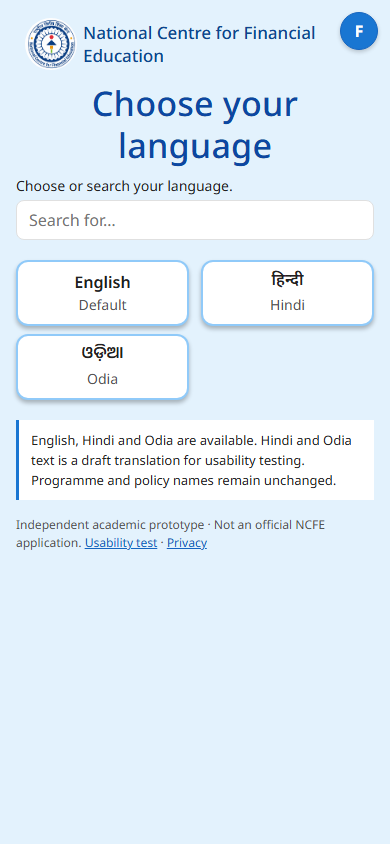
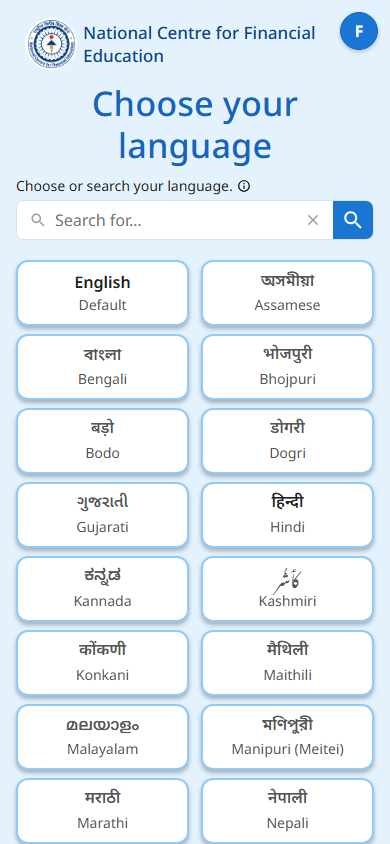
fix:match-blue-wrapper-and-original-language-flow

diff --git a/src/features/Onboarding.tsx b/src/features/Onboarding.tsx
@@ -3,6 +3,33 @@ import { useState } from 'react';
 import { useNavigate } from 'react-router-dom';
 import { Dialog, Logo, PrototypeNote } from '../components/UI';
 import { languages, useApp, type Language } from '../state';
+import { onboardingLanguages } from '../content/onboarding-languages';
+import { asset } from '../content/design';
 import s from '../styles/App.module.css';
 import o from '../styles/Onboarding.module.css';
-export function Onboarding() { const t = useTranslation(); const navigate = useNavigate(); const app = useApp(); const [pending, setPending] = useState<Language | null>(null); const [selected, setSelected] = useState<Language | null>(null); const [query, setQuery] = useState(''); const option = languages.find(l => l.id === pending); return <section className={o.onboarding}><div className={o.identity}><Logo /><p>{t("National Centre for Financial Education")}</p></div><h1 tabIndex={-1}>{t("Choose your language")}</h1><form role="search" onSubmit={e => e.preventDefault()}><label htmlFor="language-search">{t("Choose or search your language.")}</label><input id="language-search" type="search" placeholder={t("Search for…")} value={query} onChange={e => setQuery(e.target.value)}/></form><div className={o.languages} role="group" aria-label={t("Available languages")}>{languages.filter(l => `${l.native} ${l.name}`.toLowerCase().includes(query.toLowerCase())).map(language => <button key={language.id} className={`${o.tile} ${selected === language.id ? o.selected : ''}`} aria-pressed={selected === language.id} onClick={() => { setSelected(language.id); setPending(language.id); }}><strong lang={language.id} className={language.id === 'hi' ? o.hindi : language.id === 'or' ? o.odia : undefined}>{language.native}</strong><span>{t(language.name)}</span></button>)}</div>{query && !languages.some(l => `${l.native} ${l.name}`.toLowerCase().includes(query.toLowerCase())) && <p role="status">{t("No matching language.")}</p>}<p className={s.notice}>{t("English, Hindi and Odia are available. Hindi and Odia text is a draft translation for usability testing. Programme and policy names remain unchanged.")}</p><PrototypeNote />{pending && option && <Dialog title={t(`Select ${pending === 'en' ? 'English' : option.name}?`)} onClose={() => setPending(null)}><p>{t("Use ")}{t(pending === 'en' ? 'English' : option.name)}{t(" as your app language?")}</p><div className={s.actions}><button className={s.primary} onClick={() => { app.setLanguage(pending); navigate('/home'); }}>{t("Confirm")}</button><button className={s.secondary} onClick={() => setPending(null)}>{t("Cancel")}</button></div></Dialog>}</section>; }
+
+export function Onboarding() {
+  const t = useTranslation();
+  const navigate = useNavigate();
+  const app = useApp();
+  const [pending, setPending] = useState<Language | null>(null);
+  const [selected, setSelected] = useState<Language | null>(null);
+  const [query, setQuery] = useState('');
+  const option = languages.find(language => language.id === pending);
+  const matching = onboardingLanguages.filter(language => `${language.native} ${language.name}`.toLowerCase().includes(query.toLowerCase()));
+  return <section className={o.onboarding}>
+    <div className={o.identity}><Logo /><p>{t('National Centre for Financial Education')}</p></div>
+    <h1 tabIndex={-1}>{t('Choose your language')}</h1>
+    <form role="search" onSubmit={event => event.preventDefault()}>
+      <label htmlFor="language-search">{t('Choose or search your language.')} <img src={asset('111-7492', 'imgInfo')} alt="" /></label>
+      <div className={o.searchField}><img src={asset('111-7492', 'imgLeadingIcon')} alt="" /><input id="language-search" type="search" placeholder={t('Search for…')} value={query} onChange={event => setQuery(event.target.value)} /><button type="button" aria-label="Clear language search" onClick={() => setQuery('')}><img src={asset('111-7492', 'imgTrailingIcon1')} alt="" /></button><button type="submit" aria-label="Search languages"><img src={asset('111-7492', 'imgIcon')} alt="" /></button></div>
+    </form>
+    <div className={o.languages} role="group" aria-label={t('Available languages')}>
+      {matching.map(language => <button key={language.locale} disabled={!language.id} aria-describedby={!language.id ? 'language-availability' : undefined} className={`${o.tile} ${selected === language.id ? o.selected : ''}`} aria-pressed={selected === language.id} onClick={() => { if (language.id) { setSelected(language.id); setPending(language.id); } }}><strong lang={language.locale} className={language.id === 'hi' ? o.hindi : language.id === 'or' ? o.odia : undefined}>{language.native}</strong><span>{t(language.name)}</span></button>)}
+    </div>
+    {query && !matching.length && <p role="status">{t('No matching language.')}</p>}
+    <p id="language-availability" className={window.parent !== window ? s.srOnly : s.notice}>{t('English, Hindi and Odia are available. Hindi and Odia text is a draft translation for usability testing. Programme and policy names remain unchanged.')}</p>
+    <PrototypeNote />
+    {pending && option && <Dialog languageConfirmation title={t('Confirm your language?')} onClose={() => setPending(null)}><p>{t('Use the selected language for this app?')}</p><div className={s.actions}><button className={s.primary} onClick={() => { app.setLanguage(pending); navigate('/home'); }}>{t('Yes')}</button><button className={s.secondary} onClick={() => setPending(null)}>{t('No')}</button></div></Dialog>}
+  </section>;
+}

diff --git a/src/Presentation.tsx b/src/Presentation.tsx
@@ -1,15 +1,17 @@
 import { useEffect, useRef, useState } from 'react';
 import s from './styles/App.module.css';
+import { asset } from './content/design';
 export function Presentation({children}:{children:React.ReactNode}) {
   const params=new URLSearchParams(window.location.search);
   const [desktop,setDesktop]=useState(window.innerWidth>=768);
+  const [scale,setScale]=useState(()=>Math.min(.78,(window.innerHeight-136)/892));
   const [closed,setClosed]=useState(false);
   const frame=useRef<HTMLIFrameElement>(null);
-  useEffect(()=>{const update=()=>setDesktop(window.innerWidth>=768);window.addEventListener('resize',update);return()=>window.removeEventListener('resize',update);},[]);
+  useEffect(()=>{const update=()=>{setDesktop(window.innerWidth>=768);setScale(Math.max(.35,Math.min(.78,(window.innerHeight-136)/892)));};window.addEventListener('resize',update);return()=>window.removeEventListener('resize',update);},[]);
   const send=(action:string)=>frame.current?.contentWindow?.postMessage({type:'ncfe-wrapper',action},window.location.origin);
   const close=()=>{if(params.get('embedded')==='portfolio'&&window.parent!==window){const origin=params.get('parentOrigin');if(origin){try{const u=new URL(origin);if(u.origin===u.href.replace(/\/$/,''))window.parent.postMessage({type:'ncfe-close'},u.origin);}catch{/* Invalid configured parent. */}}}setClosed(true);};
   if(params.get('view')==='app'||!desktop)return <>{children}</>;
   if(closed)return <div className={s.closed}><h1>Prototype demo closed</h1><p>Independent academic NCFE redesign.</p><button className={s.primary} onClick={()=>setClosed(false)}>Reopen prototype</button><a href="https://siddhibhavya.github.io/">Return to portfolio</a></div>;
   const url=new URL(window.location.href);url.searchParams.set('view','app');url.searchParams.delete('embedded');url.searchParams.delete('parentOrigin');
-  return <div className={s.desktopStage}><section className={s.demoWindow} aria-label="NCFE prototype demo"><header className={s.demoTitle}><h1>Prototype Demo</h1><button aria-label="Close prototype demo" onClick={close}>×</button></header><div className={s.demoBody}><div className={s.phoneFrame}><iframe ref={frame} title="NCFE independent academic prototype" src={url.href}/></div><aside className={s.demoControls}><button onClick={()=>send('restart')}>Restart</button><button onClick={()=>send('back')}>Back</button><button className={s.feedbackDesktop} onClick={()=>send('feedback')}>Feedback</button><p>Independent academic redesign.<br/>Not an official NCFE application.</p></aside></div></section></div>;
+  return <div className={s.desktopStage}><section className={s.demoWindow} aria-label="NCFE prototype demo"><header className={s.demoTitle}><h1>Prototype Demo</h1><button aria-label="Close prototype demo" onClick={close}>×</button></header><div className={s.demoBody}><div className={s.phoneSlot} style={{width:420*scale,height:892*scale}}><div className={s.phoneFrame} style={{transform:`scale(${scale})`}}><div className={s.deviceStatus} aria-hidden="true"><span>9:41</span><span className={s.dynamicIsland}/><div>{['imgCellularConnection','imgWifi','imgFrame'].map(name=><img key={name} src={asset('111-7492',name)} alt=""/>)}</div></div><iframe ref={frame} title="NCFE independent academic prototype" src={url.href}/><div className={s.homeIndicator} aria-hidden="true"><span/></div></div></div><aside className={s.demoControls}><button onClick={()=>send('restart')}>Restart</button><button onClick={()=>send('back')}>Back</button><button onClick={()=>send('feedback')}>Feedback</button><p><strong>Language availability</strong><br/>English, Hindi and Odia are available. Other language cards are disabled.</p><p>Hindi and Odia are draft translations. Programme and policy names stay unchanged; original images may contain English.</p><p>Forms and support use fictional demonstrations. Unavailable videos are labelled. Feedback currently works in demonstration mode.</p><p>Independent academic redesign.<br/>Not an official NCFE application.</p></aside></div></section></div>;
 }

diff --git a/src/styles/App.module.css b/src/styles/App.module.css
@@ -3,5 +3,28 @@
 .srOnly{position:absolute!important;width:1px!important;height:1px!important;padding:0!important;margin:-1px!important;overflow:hidden!important;clip-path:inset(50%);white-space:nowrap;border:0}.feedbackTrigger{top:10px;left:92px;right:auto}.shell:has(.onboarding) .feedbackTrigger{top:12px;right:12px;left:auto}.shell:has(.onboarding) .identity{padding-right:42px}.feedbackDialog{border-color:#ffc038}.feedbackDialog .close img{width:24px;height:24px}.header .icon{max-height:28px}.page>h1.srOnly{margin:0}.main>.page:has(>h1.srOnly){padding-top:8px}.main:has(.onboarding) .feedbackTrigger{top:12px}.dark .logo{background:white}.dark input::placeholder{color:#ccc}.feedbackTrigger .desktopLabel{display:none}@media(min-width:768px){.feedbackTrigger{left:100px;right:auto;width:auto}.feedbackTrigger .desktopLabel{display:inline}.feedbackTrigger .mobileLabel{display:none}}
 .onboardShell .feedbackTrigger{top:12px;right:12px;left:auto}
 .shell[lang=hi]{font-family:'Noto Sans Devanagari','Noto Sans',sans-serif}.shell[lang=or]{font-family:'Anek Odia','Noto Sans',sans-serif}
-.demoControls .feedbackDesktop{background:var(--primary);color:white;border:1px solid var(--primary-dark);border-radius:8px;font-size:16px;min-height:44px}
+.desktopStage{background:var(--heading);padding:16px}
+.demoWindow{width:min(680px,100%);background:var(--background);border-radius:28px;margin:0}
+.demoTitle{height:56px;background:var(--primary-dark)}
+.demoTitle h1{font-size:26px}
+.demoTitle button{top:6px;font-size:32px}
+.demoBody{gap:28px;padding:24px}
+.phoneSlot{position:relative;flex:none}
+.phoneFrame{position:absolute;width:420px;min-width:0;max-width:none;height:892px;min-height:0;border:9px solid #212121;border-radius:55px;box-shadow:0 0 0 2px var(--outline),0 12px 24px #0003;display:flex;flex-direction:column;transform-origin:top left}
+.phoneFrame iframe{height:auto;flex:1;min-height:0}
+.deviceStatus{height:54px;flex:none;display:flex;align-items:center;justify-content:space-between;background:#fafafa;padding:0 25px;font-size:17px;font-weight:600;color:#0c0231;position:relative}
+.deviceStatus>div{display:flex;gap:7px;align-items:center}
+.dynamicIsland{position:absolute;top:10px;left:50%;transform:translateX(-50%);width:120px;height:34px;background:#000;border-radius:24px}
+.homeIndicator{height:25px;background:#212121;display:grid;place-items:center;flex:none}
+.homeIndicator span{width:216px;height:5px;border-radius:9px;background:#fff}
+.demoControls{width:230px;min-width:0;padding:0}
+.demoControls button{border:2px solid var(--primary-dark);background:var(--primary);color:white;border-radius:30px;min-height:48px;font-size:18px;margin-bottom:14px}
+.demoControls p{color:var(--heading);font-size:13px;line-height:20px;margin:14px 0}
+@media(max-height:720px) and (min-width:768px){.phoneFrame{height:892px}.demoWindow{margin:0}.demoBody{padding:24px}}
 .dark .header{background:#fff}
+.languageConfirmation{box-shadow:-6px 9px 2px #0004}
+.languageConfirmation .dialogInner{padding:16px}
+.languageConfirmation h2{color:var(--text);font-size:24px;line-height:32px;margin:0 0 8px}
+.languageConfirmation p{color:var(--muted);line-height:22px;margin:0 0 4px}
+.languageConfirmation .actions{border:1px dashed var(--outline);border-top:1px solid #e0e0e0;border-radius:12px;min-height:64px;align-items:center;margin:0;gap:12px}
+.languageConfirmation .actions button{height:32px;min-height:32px;padding:0 12px;font-size:14px;border-radius:8px;box-shadow:0 2px 4px #0004}

diff --git a/src/styles/Onboarding.module.css b/src/styles/Onboarding.module.css
@@ -1,2 +1,23 @@
 .onboarding{padding:18px 16px 30px;max-width:720px;margin:0 auto}.identity{display:flex;gap:6px;align-items:center;padding:0 9px}.identity>span{width:52px;height:52px}.identity p{font-size:17px;line-height:23px;font-weight:500;color:#0d458f;margin:0}.onboarding h1{font-size:34px;line-height:42px;font-weight:500;letter-spacing:.25px;text-align:center;margin:12px 0 10px}.onboarding label{display:block;font-size:14px;line-height:20px;margin-bottom:4px}.onboarding input{border:1px solid #e0e0e0;background:var(--card);color:var(--text);border-radius:8px;width:100%;height:40px;padding:8px 12px}.languages{display:grid;grid-template-columns:repeat(2,minmax(0,1fr));gap:8px 12px;margin:20px 0}.tile{min-height:66px;border:2px solid var(--outline);border-radius:12px;box-shadow:0 3px 4px #0004;background:var(--card);display:flex;flex-direction:column;justify-content:center;align-items:center;gap:0;padding:8px}.tile strong{font-size:16px;line-height:24px;font-weight:600}.tile span{font-size:14px;line-height:22px;color:var(--muted)}.selected{background:#1565c0;color:white;border-color:#0c0231;box-shadow:none}.selected span{color:white}.hindi{font-family:'Noto Sans Devanagari',sans-serif}.odia{font-family:'Anek Odia',sans-serif}.onboarding:global(.dark) .identity p{color:#90caf9}@media(max-width:350px){.onboarding h1{font-size:28px;line-height:36px}.identity p{font-size:15px}.languages{gap:8px}}@media(min-width:768px){.onboarding{padding:24px 28px}.onboarding h1{text-align:left}.languages{grid-template-columns:repeat(3,minmax(0,1fr))}}
 .identity{padding-right:42px}
+.searchField{display:flex;align-items:center;height:40px;border:1px solid #e0e0e0;border-radius:8px;background:var(--card);overflow:hidden;padding-left:12px;gap:8px}
+.onboarding label{display:flex;align-items:center;gap:4px}
+.onboarding label img{width:14px;height:14px}
+.searchField>img{width:18px;height:18px;flex:none}
+.searchField input{border:0;border-radius:0;min-width:0;flex:1;padding:8px 0;outline-offset:-3px}
+.searchField button{border:0;background:transparent;display:grid;place-items:center;width:24px;flex:none;padding:0;height:40px}
+.searchField button img{width:18px;height:18px}
+.searchField button:last-child{background:var(--primary);width:40px}
+.searchField button:last-child img{width:24px;height:24px}
+.tile:disabled{opacity:1;box-shadow:0 3px 4px #0004;color:var(--muted)}
+.onboarding h1{color:var(--primary-dark)}
+.tile strong:lang(as),.tile strong:lang(bn),.tile strong:lang(mni){font-family:'Noto Sans Bengali',sans-serif}
+.tile strong:lang(bho),.tile strong:lang(brx),.tile strong:lang(doi),.tile strong:lang(kok),.tile strong:lang(mai),.tile strong:lang(mr),.tile strong:lang(ne),.tile strong:lang(raj),.tile strong:lang(sat){font-family:'Noto Sans Devanagari',sans-serif}
+.tile strong:lang(gu){font-family:'Noto Sans Gujarati',sans-serif}
+.tile strong:lang(kn){font-family:'Noto Sans Kannada',sans-serif}
+.tile strong:lang(ml){font-family:'Noto Sans Malayalam',sans-serif}
+.tile strong:lang(pa){font-family:'Noto Sans Gurmukhi',sans-serif}
+.tile strong:lang(ta){font-family:'Noto Sans Tamil',sans-serif}
+.tile strong:lang(te){font-family:'Noto Sans Telugu',sans-serif}
+.tile strong:lang(ur),.tile strong:lang(ks),.tile strong:lang(sd){font-family:'Noto Nastaliq Urdu',sans-serif}
+@media(min-width:768px){.languages{grid-template-columns:repeat(2,minmax(0,1fr))}}

diff --git a/tests/shell.spec.ts b/tests/shell.spec.ts
@@ -2,12 +2,14 @@ import {test,expect} from '@playwright/test';
 test('language confirmation, cancel, navigation and original fixed shell',async({page})=>{
  await page.setViewportSize({width:390,height:844});
  await page.goto('?view=app#/onboarding');
+ await expect(page.getByRole('group',{name:'Available languages'}).getByRole('button')).toHaveCount(24);
+ await expect(page.getByRole('group',{name:'Available languages'}).locator('button:disabled')).toHaveCount(21);
  await page.getByRole('button',{name:'हिन्दी Hindi'}).click();
  await expect(page.getByRole('dialog')).toBeVisible();
- await page.getByRole('button',{name:'Cancel',exact:true}).click();
+ await page.getByRole('button',{name:'No',exact:true}).click();
  await expect(page.getByRole('button',{name:'हिन्दी Hindi'})).toHaveAttribute('aria-pressed','true');
  await page.getByRole('button',{name:'English Default'}).click();
- await page.getByRole('button',{name:'Confirm',exact:true}).click();
+ await page.getByRole('button',{name:'Yes',exact:true}).click();
  await expect(page.getByRole('heading',{name:'Home',exact:true})).toBeVisible();
  await expect(page.locator('header')).toHaveCSS('height','56.4531px');
  await page.getByRole('navigation').getByRole('link',{name:'Learn',exact:true}).click();
@@ -27,6 +29,9 @@ test('capture shell and onboarding phase evidence',async({page})=>{
 });
 test('desktop wrapper feedback, Back and Restart control the phone prototype',async({page})=>{
  await page.setViewportSize({width:1024,height:1000});await page.goto('#/home');
+ await expect(page.getByText('Language availability',{exact:true})).toBeVisible();
+ const controlStyles=await page.locator('aside > button').evaluateAll(buttons=>buttons.map(button=>{const style=getComputedStyle(button);return [style.backgroundColor,style.borderRadius,style.height,style.fontSize].join('|');}));
+ expect(new Set(controlStyles).size).toBe(1);
  const app=page.frameLocator('iframe');await app.getByRole('navigation').getByRole('link',{name:'Learn',exact:true}).click();
  await page.getByRole('button',{name:'Back',exact:true}).click();await expect(app.getByRole('heading',{name:'Home',exact:true})).toBeVisible();
  await page.getByRole('button',{name:'Feedback',exact:true}).click();await expect(app.getByRole('dialog')).toBeVisible();await app.getByRole('button',{name:'Close dialog'}).click();

diff --git a/src/components/UI.tsx b/src/components/UI.tsx
@@ -22,11 +22,12 @@ export function ActionLink({ to, children }: {
     to: string;
     children: ReactNode;
 }) { return <Link className={s.primary} to={to}>{children}</Link>; }
-export function Dialog({ title, children, onClose, feedback = false }: {
+export function Dialog({ title, children, onClose, feedback = false, languageConfirmation = false }: {
     title: string;
     children: ReactNode;
     onClose: () => void;
     feedback?: boolean;
+    languageConfirmation?: boolean;
 }) {
     const t = useTranslation();
     const titleId = useId();
@@ -35,6 +36,6 @@ export function Dialog({ title, children, onClose, feedback = false }: {
     closeRef.current = onClose;
     useEffect(() => { const dialog = ref.current; if (!dialog)
         return; const previous = document.activeElement as HTMLElement | null; dialog.showModal(); return () => { dialog.close(); previous?.focus(); }; }, []);
-    return <dialog ref={ref} className={feedback ? s.feedbackDialog : s.dialog} aria-labelledby={titleId} onCancel={event => { event.preventDefault(); closeRef.current(); }}><div className={s.dialogInner}><button className={s.close} aria-label={t("Close dialog")} onClick={onClose}>{feedback ? <img src={asset('295-16869', 'imgVector')} alt={t("")}/> : '×'}</button><h2 id={titleId}>{title}</h2>{children}</div></dialog>;
+    return <dialog ref={ref} className={`${feedback ? s.feedbackDialog : s.dialog} ${languageConfirmation ? s.languageConfirmation : ''}`} aria-labelledby={titleId} onCancel={event => { event.preventDefault(); closeRef.current(); }}><div className={s.dialogInner}>{!languageConfirmation && <button className={s.close} aria-label={t("Close dialog")} onClick={onClose}>{feedback ? <img src={asset('295-16869', 'imgVector')} alt={t("")}/> : '×'}</button>}<h2 id={titleId}>{title}</h2>{children}</div></dialog>;
 }
 export function PrototypeNote() { const t = useTranslation(); return <p className={s.prototypeNote}>{t("Independent academic prototype \u00B7 Not an official NCFE application. ")}<Link to="/study">{t("Usability test")}</Link>{t(" \u00B7 ")}<Link to="/privacy">{t("Privacy")}</Link></p>; }

diff --git a/tests/research-localization.spec.ts b/tests/research-localization.spec.ts
@@ -17,7 +17,7 @@ test('guided testing survives navigation and supports skips without Firebase',as
 });
 for(const language of ['hi','or'] as const){
  test(`${language}: selected language changes interface, topic content and search; preserves programme/policy names`,async({page})=>{
-  await page.goto('?view=app#/onboarding');await page.getByRole('button',{name:language==='hi'?'हिन्दी Hindi':'ଓଡ଼ିଆ Odia'}).click();await page.getByRole('button',{name:'Confirm',exact:true}).click();await expect(page.locator('html')).toHaveAttribute('lang',language);
+  await page.goto('?view=app#/onboarding');await page.getByRole('button',{name:language==='hi'?'हिन्दी Hindi':'ଓଡ଼ିଆ Odia'}).click();await page.getByRole('button',{name:'Yes',exact:true}).click();await expect(page.locator('html')).toHaveAttribute('lang',language);
   await page.getByRole('navigation').getByRole('link',{name:language==='hi'?'सीखें':'ଶିଖନ୍ତୁ',exact:true}).click();await expect(page.getByRole('heading',{name:language==='hi'?'पाठ्यपुस्तकें':'ପାଠ୍ୟପୁସ୍ତକ'})).toBeVisible();
   await page.locator('header a[href="#/learn/search"]').click();await page.getByRole('searchbox').fill(language==='hi'?'बैंक खाते':'ଖାତା');await page.getByRole('link',{name:language==='hi'?/बैंकिंग: वित्तीय समावेशन/:/ବ୍ୟାଙ୍କିଂ: ଆର୍ଥିକ ଅନ୍ତର୍ଭୁକ୍ତି/}).click();await expect(page.getByText(language==='hi'?/वित्तीय समावेशन का अर्थ/:/ଆର୍ଥିକ ଅନ୍ତର୍ଭୁକ୍ତିର ଅର୍ଥ/)).toBeVisible();await page.screenshot({path:`docs/screenshots/translated-${language}.png`});
   await page.locator('header a[href="#/home"]').click();await page.getByRole('link',{name:'Pradhan Mantri Jan Dhan Yojana',exact:true}).click();await expect(page.getByRole('heading',{name:'Pradhan Mantri Jan Dhan Yojana',exact:true})).toBeVisible();

diff --git a/src/content/onboarding-languages.ts b/src/content/onboarding-languages.ts
@@ -1,0 +1,29 @@
+import type { Language } from '../state';
+
+// Original Figma card order and labels; only implemented locales are selectable.
+export const onboardingLanguages: { native: string; name: string; locale: string; id?: Language }[] = [
+  { native: 'English', name: 'Default', locale: 'en', id: 'en' },
+  { native: 'অসমীয়া', name: 'Assamese', locale: 'as' },
+  { native: 'বাংলা', name: 'Bengali', locale: 'bn' },
+  { native: 'भोजपुरी', name: 'Bhojpuri', locale: 'bho' },
+  { native: 'बड़ो', name: 'Bodo', locale: 'brx' },
+  { native: 'डोगरी', name: 'Dogri', locale: 'doi' },
+  { native: 'ગુજરાતી', name: 'Gujarati', locale: 'gu' },
+  { native: 'हिन्दी', name: 'Hindi', locale: 'hi', id: 'hi' },
+  { native: 'ಕನ್ನಡ', name: 'Kannada', locale: 'kn' },
+  { native: 'کٲشُر', name: 'Kashmiri', locale: 'ks' },
+  { native: 'कोंकणी', name: 'Konkani', locale: 'kok' },
+  { native: 'मैथिली', name: 'Maithili', locale: 'mai' },
+  { native: 'മലയാളം', name: 'Malayalam', locale: 'ml' },
+  { native: 'মণিপুরী', name: 'Manipuri (Meitei)', locale: 'mni' },
+  { native: 'मराठी', name: 'Marathi', locale: 'mr' },
+  { native: 'नेपाली', name: 'Nepali', locale: 'ne' },
+  { native: 'ଓଡ଼ିଆ', name: 'Odia', locale: 'or', id: 'or' },
+  { native: 'ਪੰਜਾਬੀ', name: 'Punjabi', locale: 'pa' },
+  { native: 'राजस्थानी', name: 'Rajasthani', locale: 'raj' },
+  { native: 'संताली', name: 'Santali', locale: 'sat' },
+  { native: 'سنڌي', name: 'Sindhi', locale: 'sd' },
+  { native: 'தமிழ்', name: 'Tamil', locale: 'ta' },
+  { native: 'తెలుగు', name: 'Telugu', locale: 'te' },
+  { native: 'اردو', name: 'Urdu', locale: 'ur' },
+];

diff --git a/src/main.tsx b/src/main.tsx
@@ -11,6 +11,14 @@ import '@fontsource/noto-sans-devanagari/700.css';
 import '@fontsource/anek-odia/600.css';
 import '@fontsource/anek-odia/400.css';
 import '@fontsource/anek-odia/700.css';
+import '@fontsource/noto-sans-bengali/600.css';
+import '@fontsource/noto-sans-gujarati/600.css';
+import '@fontsource/noto-sans-kannada/600.css';
+import '@fontsource/noto-sans-malayalam/600.css';
+import '@fontsource/noto-sans-gurmukhi/600.css';
+import '@fontsource/noto-sans-tamil/600.css';
+import '@fontsource/noto-sans-telugu/600.css';
+import '@fontsource/noto-nastaliq-urdu/600.css';
 import './styles/tokens.css';
 import App from './App';
 ReactDOM.createRoot(document.getElementById('root')!).render(<React.StrictMode><HashRouter><App/></HashRouter></React.StrictMode>);
